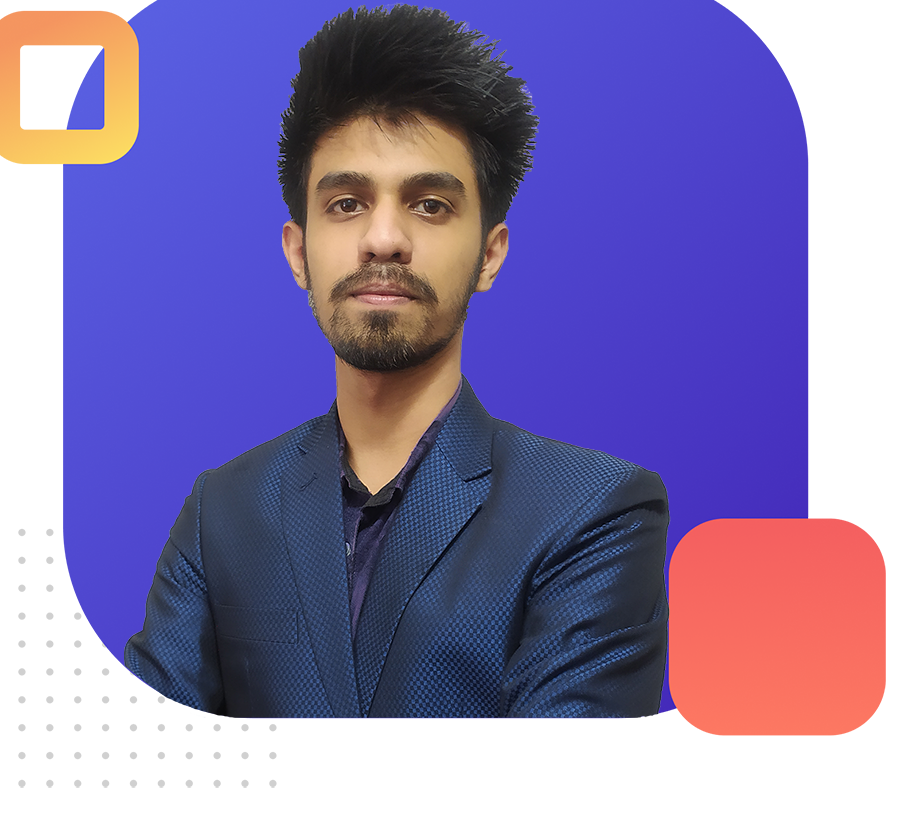
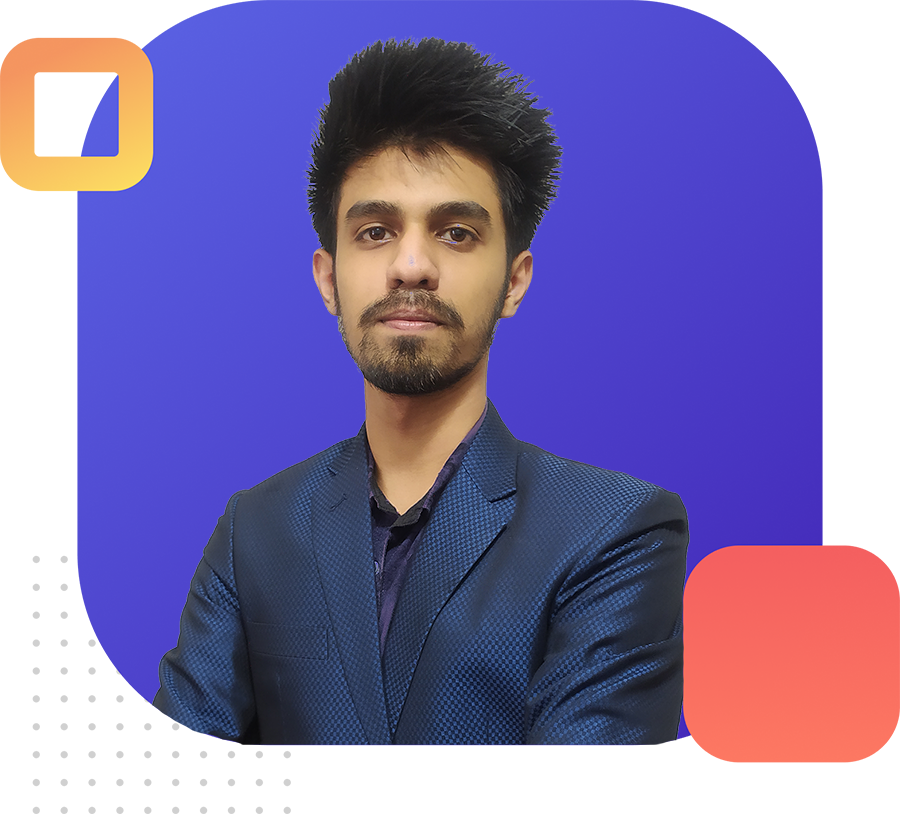
done projects section

Changed region(s): [[0.0, 0.0, 1.0, 1.0], [0.7156, 0.0, 0.8711, 0.0921]]

diff --git a/index.html b/index.html
@@ -5,7 +5,7 @@
     <meta name="viewport" content="width=device-width, initial-scale=1.0">
     <title>Personal Website</title>
     <link rel="preconnect" href="https://fonts.gstatic.com">
-    <link href="https://fonts.googleapis.com/css2?family=Roboto&display=swap" rel="stylesheet">
+    <link href="https://fonts.googleapis.com/css2?family=Bebas+Neue&family=Roboto&display=swap" rel="stylesheet">
     <link rel="stylesheet" href="style.css">
 </head>
 <body>
@@ -19,8 +19,46 @@
             </ul>
         </nav>
     </header>
-    <section>
-        
+    <section class="top-section">
+        <div class="half-width">
+            <h1>HELLO, I'M</h1>
+            <h1 class="colorful-text">ZAYED</h1>
+            <p>A full stack allaround designer that placerat in massa consectetur</p>
+            <a class="link-button" target="_blank" href="https://www.linkedin.com/in/zayed-ibn-ibrahim-b51477189/">Hire Me</a>
+        </div>
+        <div class="half-width">
+            <img src="images/zayed first.png" alt="Zayed Image">
+        </div>
+    </section>
+    <section class="second-section">
+        <div class="half-width">
+            <img src="images/zayed second.png" alt="Zayed Image2">
+        </div>
+        <div class="half-width">
+            <h2>ABOUT</h2>
+            <p>I am Zayed, a professional Web Developer, Programmer and website maintenance expert. Over the last 2 years, I have worked on many projects to develop my skills. I am able to create a websites at any level to build a stable, responsive and high quality website. I can fix any kind of issue or error on your website. I always try to give customer more than they expect.</p>
+            <a class="link-button" target="_blank" href="https://www.linkedin.com/in/zayed-ibn-ibrahim-b51477189/">DOWNLOAD CV</a>
+        </div>
+    </section>
+    <section class="projects-section">
+        <h2><span class="project-colorful-text">LASTET</span> WORKING PROJECT</h2>
+        <div class="projects">
+            <div class="project-item">
+                <img src="images/image 4.png" alt="">
+                <h3>Power-x-gym (gym website)</h3>
+                <p>Lorem Ipsum is simply dummy text of the printing and typesetting industry.</p>
+            </div>
+            <div class="project-item">
+                <img src="images/image 4.png" alt="">
+                <h3>Power-x-gym (gym website)</h3>
+                <p>Lorem Ipsum is simply dummy text of the printing and typesetting industry.</p>
+            </div>
+            <div class="project-item">
+                <img src="images/image 4.png" alt="">
+                <h3>Power-x-gym (gym website)</h3>
+                <p>Lorem Ipsum is simply dummy text of the printing and typesetting industry.</p>
+            </div>
+        </div>
     </section>
 </body>
 </html>

diff --git a/style.css b/style.css
@@ -1,11 +1,11 @@
 body{
     margin: 0;
     padding: 0;
-    font-family: 'Roboto', sans-serif;
 }
 header{
     padding-top: 20px;
     height: 90px;
+    font-family: 'Roboto', sans-serif;
 }
 header nav{
     width: 85%;
@@ -20,4 +20,92 @@ header nav ul li{
     float: left;
     margin-left: 10%;
     font-weight: 700;
+}
+.top-section,
+.second-section{
+    height: 600px;
+}
+.half-width{
+    width: 40%;
+    margin-left: 7%;
+    float: left;
+}
+.half-width img{
+    width: 90%;
+}
+.colorful-text{
+    color: #FF8367;
+
+}
+ h1{
+     font-size: 80px;
+     font-family: 'Bebas Neue', cursive;
+     color: #363958;
+     font-weight: 400;
+     margin: 0;
+ }
+ h2{
+    font-family: 'Bebas Neue', cursive;
+    color: #363958;
+    font-weight: 400;
+    font-size: 48px;
+    margin-bottom: 10px;
+ }
+p{
+    font-family: 'Roboto', sans-serif;
+}
+.link-button{
+    font-family: 'Roboto', sans-serif;
+    color: white;
+    padding: 20px 45px;
+    text-decoration: none;
+    background-image: linear-gradient(180deg, #F46060, #FF8063);
+    border-radius: 6px;
+    font-weight: 400;
+}
+.top-section p, .second-section p{
+    margin-bottom: 58px;
+}
+.second-section p{
+    padding-right: 100px;
+}
+.top-section .half-width:nth-child(1){
+    padding-top: 55px;
+}
+.second-section .half-width:nth-child(2){
+    padding-top: 55px;
+}
+.projects-section{
+    background-color: #F8F9FC;
+    height: 700px;
+    padding-top: 70px;
+}
+.project-colorful-text{
+    color: #F46060;
+}
+.projects-section h2{
+    text-align: center;
+    margin-bottom: 50px;
+}
+.projects{
+    width: 85%;
+    margin: 10px auto;
+
+}
+.project-item{
+    text-align: left;
+    width: 28%;
+    float: left;
+    box-shadow: 0px 6.5812px 19.7436px rgba(0, 0, 0, 0.07);
+    margin-left: 3%;
+    padding: 10px;
+    border-radius: 20px;
+}
+.project-item img{
+    width: 100%;
+}
+.projects-section h3{
+    font-size: 24px;
+    font-weight: 700;
+    font-family: 'Roboto', sans-serif;
 }
